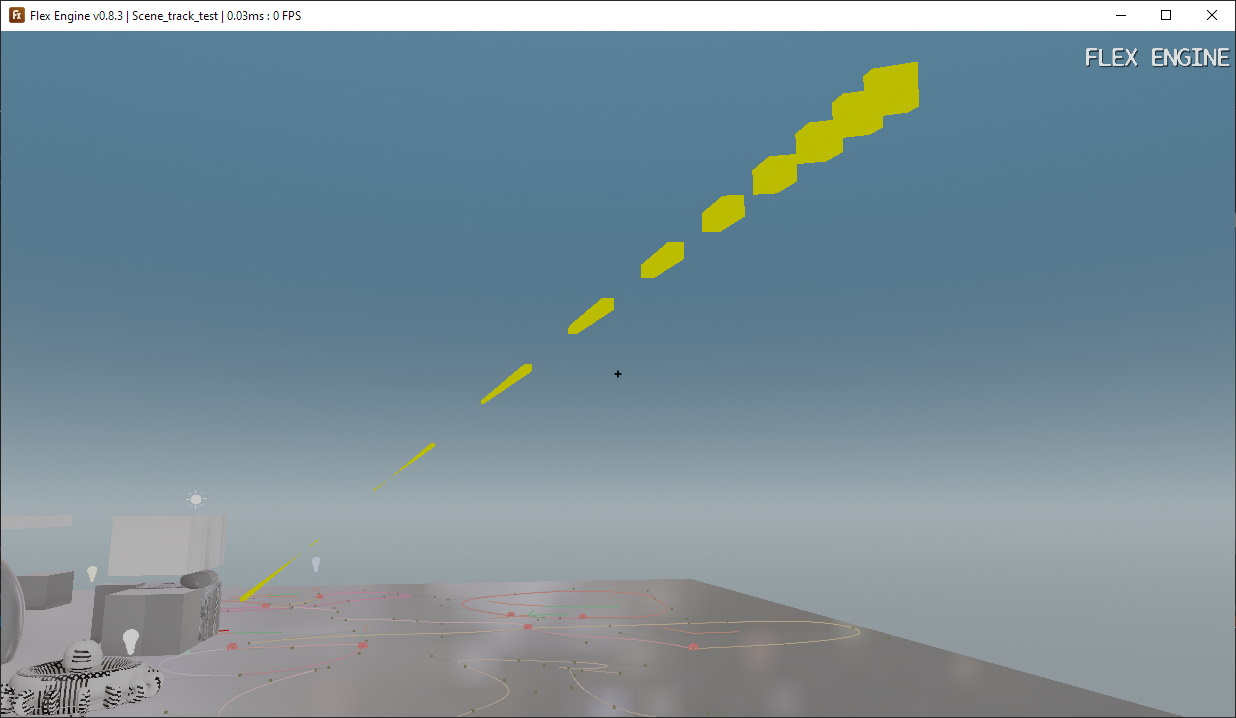
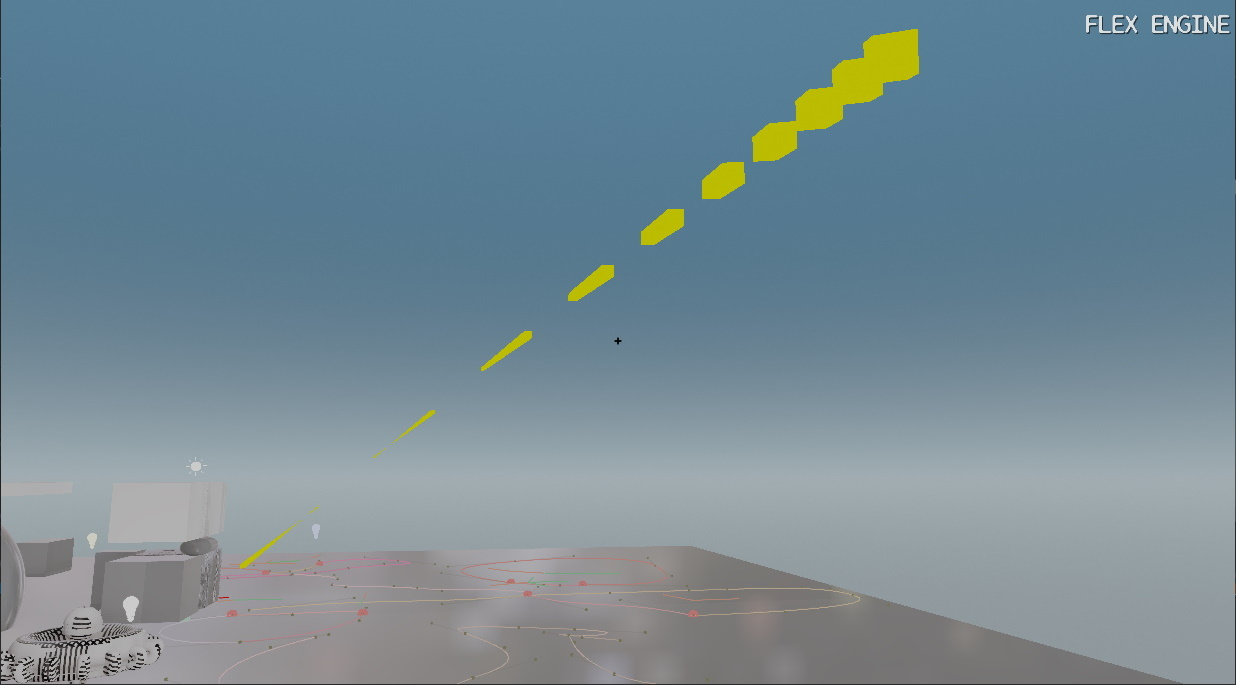
Fix errors with particles & tweak settings

diff --git a/FlexEngine/src/Graphics/Vulkan/VulkanRenderer.cpp b/FlexEngine/src/Graphics/Vulkan/VulkanRenderer.cpp
@@ -1464,15 +1464,8 @@ namespace flex
 				descSetCreateInfo.shaderID = particleMaterial->material.shaderID;
 				descSetCreateInfo.uniformBuffer = &particleShader->uniformBuffer;
 
-				for (auto& pair : particleMaterial->textures)
-				{
-					if (particleShader->shader->textureUniforms.HasUniform(pair.first))
-					{
-						VulkanTexture* texture = pair.second;
-						assert(texture != nullptr);
-						descSetCreateInfo.imageDescriptors.Add(pair.first, ImageDescriptorInfo{ texture->imageView, m_LinMipLinSampler });
-					}
-				}
+				VulkanTexture* texture = m_LoadedTextures[m_AlphaBGTextureID];
+				descSetCreateInfo.imageDescriptors.Add(U_ALBEDO_SAMPLER, ImageDescriptorInfo{ texture->imageView, m_LinMipLinSampler });
 
 				FillOutBufferDescriptorInfos(&descSetCreateInfo.bufferDescriptors, descSetCreateInfo.uniformBuffer, descSetCreateInfo.shaderID);
 				CreateDescriptorSet(&descSetCreateInfo);
@@ -1488,10 +1481,10 @@ namespace flex
 				pipelineCreateInfo.cullMode = VK_CULL_MODE_NONE;
 				pipelineCreateInfo.descriptorSetLayoutIndex = particleMaterial->material.shaderID;
 				pipelineCreateInfo.bSetDynamicStates = true;
-				pipelineCreateInfo.bEnableColorBlending = true;
+				pipelineCreateInfo.bEnableColorBlending = particleShader->shader->bTranslucent;
 				pipelineCreateInfo.subpass = particleShader->shader->subpass;
 				pipelineCreateInfo.depthCompareOp = VK_COMPARE_OP_GREATER_OR_EQUAL;
-				pipelineCreateInfo.depthWriteEnable = VK_TRUE;
+				pipelineCreateInfo.depthWriteEnable = particleShader->shader->bDepthWriteEnable ? VK_TRUE : VK_FALSE;
 				pipelineCreateInfo.renderPass = *m_ForwardRenderPass;
 				CreateGraphicsPipeline(&pipelineCreateInfo);
 			}
@@ -1897,6 +1890,8 @@ namespace flex
 				CreateShadowIndexBuffer();
 
 				GenerateIrradianceMaps();
+
+				InitializeParticleBuffers();
 			}
 		}
 
@@ -4860,19 +4855,27 @@ namespace flex
 			m_Particles.resize(MAX_PARTICLE_COUNT);
 
 			const u32 dim = (u32)glm::pow((real)m_Particles.size(), 1.0f / 3.0f);
-			const real particlePlacementScale = 10.0f;
+			const real invDim = 1.0f / (real)dim;
+			const real particlePlacementScale = 45.0f;
 			for (u32 i = 0; i < m_Particles.size(); ++i)
 			{
 				//real delta = ((real)i) / (real)(m_Particles.size() - 1);
-				real x = (i % dim) * particlePlacementScale;
-				real y = (i / dim % dim) * particlePlacementScale;
-				real z = (i / (dim * dim) % dim) * particlePlacementScale;
+				real x = (i % dim) * invDim - 0.5f;
+				real y = (i / dim % dim) * invDim - 0.5f;
+				real z = (i / (dim * dim) % dim) * invDim - 0.5f;
 
-				m_Particles[i].pos = glm::vec3(x, y, z);
-				m_Particles[i].uv = glm::vec2(0.0f);
+				real mag = glm::length(glm::vec3(x, y, z));
+
+				real dx = x * 2.0f;
+				real dz = z * 2.0f;
+
+				real theta = atan2(dz, dx) - PI_DIV_TWO;
+
+				m_Particles[i].pos = glm::vec3(x, y, z) * particlePlacementScale;
 				m_Particles[i].color = glm::vec4(1.0f);
-				m_Particles[i].vel = glm::normalize(glm::vec3(-x - 1, -y, -z)) * 0.5f;
-				m_Particles[i].extraVec4 = glm::vec4(1.0f, 0.0f, 0.0f, 0.0f);
+				// Vortex
+				m_Particles[i].vel = glm::vec3(cos(theta), 0.0f, sin(theta)) * mag;
+				m_Particles[i].extraVec4 = glm::vec4(Lerp(0.6f, 0.2f, mag), 0.0f, 0.0f, 0.0f);
 			}
 
 			const u32 particleBufferSize = MAX_PARTICLE_COUNT * sizeof(ParticleBufferData);

diff --git a/FlexEngine/src/Graphics/Renderer.cpp b/FlexEngine/src/Graphics/Renderer.cpp
@@ -1861,11 +1861,12 @@ namespace flex
 
 			// Particles
 			m_BaseShaders[shaderID].renderPassType = RenderPassType::FORWARD;
+			m_BaseShaders[shaderID].bDepthWriteEnable = true;
+			m_BaseShaders[shaderID].bTranslucent = false;
 			m_BaseShaders[shaderID].vertexAttributes =
 				(u32)VertexAttribute::POSITION |
-				(u32)VertexAttribute::UV |
+				(u32)VertexAttribute::VELOCITY3 |	
 				(u32)VertexAttribute::COLOR_R32G32B32A32_SFLOAT |
-				(u32)VertexAttribute::VELOCITY3 |
 				(u32)VertexAttribute::EXTRA_VEC4;
 
 			m_BaseShaders[shaderID].constantBufferUniforms.AddUniform(U_UNIFORM_BUFFER_CONSTANT);

diff --git a/FlexEngine/include/Graphics/Renderer.hpp b/FlexEngine/include/Graphics/Renderer.hpp
@@ -349,7 +349,7 @@ namespace flex
 		VertexBufferData m_gBufferQuadVertexBufferData;
 
 		std::vector<ParticleBufferData> m_Particles;
-		const u32 MAX_PARTICLE_COUNT = 65536;
+		const u32 MAX_PARTICLE_COUNT = 2097152;
 		const u32 PARTICLES_PER_DISPATCH = 256;
 
 		// Any editor objects which also require a game object wrapper

diff --git a/FlexEngine/include/Graphics/RendererTypes.hpp b/FlexEngine/include/Graphics/RendererTypes.hpp
@@ -102,11 +102,10 @@ namespace flex
 	};
 
 #pragma pack(push, 1)
-	// 64 bytes
+	// 54 bytes
 	struct ParticleBufferData
 	{
 		glm::vec3 pos;		// 12
-		glm::vec2 uv;		// 8
 		glm::vec4 color;	// 16
 		glm::vec3 vel;		// 12
 		glm::vec4 extraVec4;// 16
